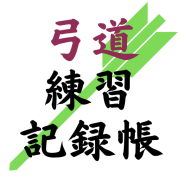
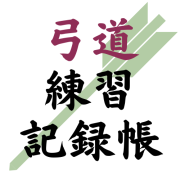
ロゴ・OGP・Faviconの色を和風の渋い緑に修正

Changed region(s): [[0.25, 0.0, 1.0, 0.7222], [0.0278, 0.7222, 0.2778, 0.9444]]

diff --git a/README.md b/README.md
@@ -1,5 +1,5 @@
 # 弓道練習記録帳
-![title](https://user-images.githubusercontent.com/70277776/215962318-3d3d8526-048e-455b-bbb8-3fd939dc0053.png)
+![title](https://user-images.githubusercontent.com/70277776/218054719-6cbfa706-bbde-42c3-84bb-ec231aea6400.png)
 
 ## 概要
 弓道練習記録帳は、弓道の練習記録の管理・集計アプリです。<br>
